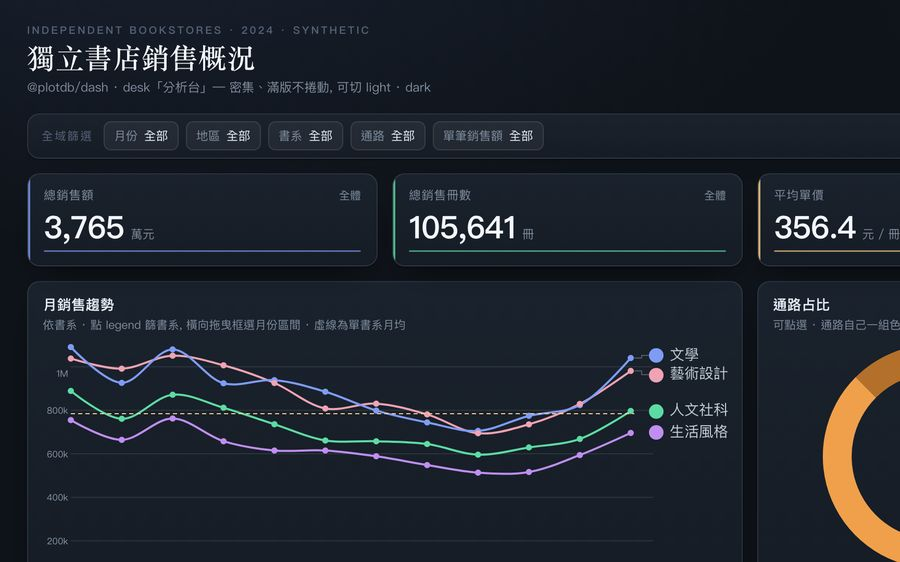
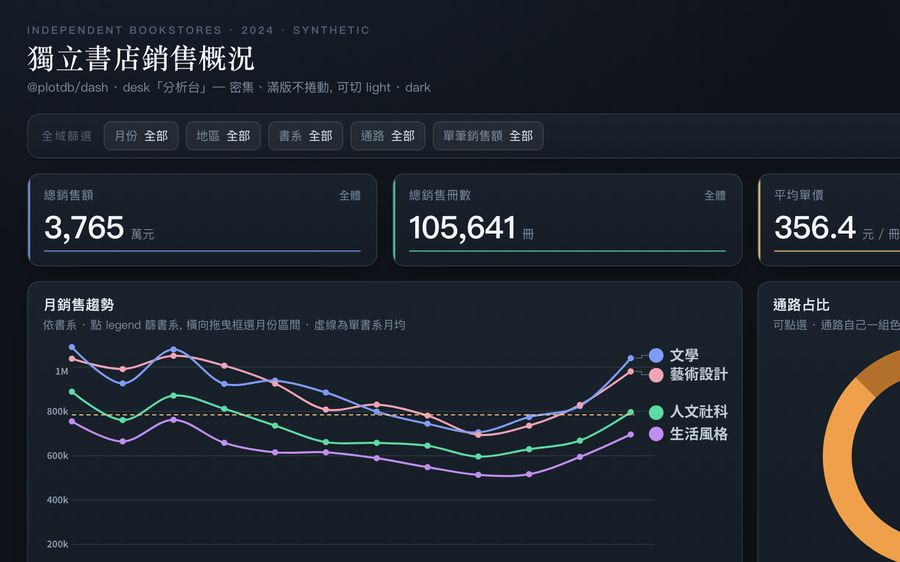
示範頁: 地圖的輪廓與色階, desk 固定帶一個 xlfont 字型
地圖幾乎看不見, 查下來是三件事疊在一起:

1. taiwan-map 把 palette.colors 當成「分級」用, 不是漸層的兩端. 七版都只
   給兩個顏色, 所以只有兩級 - 六個有銷售的縣市裡只有前兩名上色, 第三名
   ( 臺中市 620 萬 ) 拿到的顏色跟完全沒有資料的縣市一樣. 打開 legend 就
   看得到它寫著兩段級距. 現在都給五階.

2. 縣市邊界原本 rgba(...,.14~.22) 配 0.6~0.8px, 對卡片底的對比只有
   1.3~1.9; 最低一級的填色對卡片底只有 1.1~1.2. 兩個都看不見, 所以整座島
   是透明的. 現在的值是算出來的: 邊界取對比 2.4、線寬 1px, 最低一級的填色
   取對比 1.30 - 前者讓線讀得到, 後者讓陸地在沒有資料時仍是一塊看得出形狀
   的面. 每一版底色不同所以數值不同, 但目標對比一樣.

3. split 的主題寫成 `geo: colors: <[...]>, border: {...}` 在同一行, 隱式
   物件一路吃到行尾, border 變成 geo 的 key, 於是邊線設定跑進 palette
   底下、圖表拿不到 - 那一頁的地圖根本沒有輪廓. 大括號補回來.

另外 desk 的主題層固定帶 font: {family: {name: 'Taipei Sans TC'}}, 當成
字型那條路的長期回歸點: 它會走 konfig 字型元件 -> xlfont 子集載入 ->
把 xfl-* 掛到 svg 上, 每次重拍縮圖就會順便驗到. 名字不在 xlfont 的 meta
裡的話會拿到空物件, 畫面上是瀏覽器字型, 不報錯也沒人會發現.

縮圖只有 desk 兩張變 ( 其餘設計的地圖不在裁切範圍內 ).

diff --git a/web/src/pug/initiative/variation/README.md b/web/src/pug/initiative/variation/README.md
@@ -122,5 +122,40 @@
 `prefers-reduced-motion`。所以現在它跟其他六版一樣從頭拍。
 
 
+## 地圖：色階是「分級」，不是漸層
+
+`@makechart/taiwan-map` 把 `palette.colors` 當成**分級**用：給兩個顏色就只有兩級。
+原本七版都只給兩個，結果是六個有銷售的縣市裡只有前兩名上色，第三名（臺中市 620 萬）
+拿到的顏色跟**完全沒有資料**的縣市一模一樣 —— 看起來像壞掉，實際上是級距只有兩段。
+
+打開 legend 就看得到：兩個顏色時它寫的是
+
+    7,200,000 - 12,000,000 元
+    2,200,000 - 7,200,000 元
+
+現在七版的 `geo-ramp` 都給五階，從低端到強調色等距內插出來的。
+
+另外，**沒有資料的縣市跟最低一級同色**，這一點目前沒辦法分開 —— `taiwan-map` 的設定
+只有 `border` 與 `legend`，沒有「無資料」的顏色。要分開得改圖表。
+
+## 地圖：輪廓要自己撐住
+
+縣市邊界原本是 `rgba(..., .14~.22)` 配 0.6~0.8px，對卡片底的對比只有 1.3~1.9，
+而「沒有資料」那一級的填色對卡片底只有 1.1~1.2 —— 兩個都看不見，所以整座島是透明的。
+
+現在的規則是算出來的，不是調出來的：**邊界對卡片底取對比 2.4、線寬 1px，
+最低一級的填色對卡片底取對比 1.30**。前者讓線讀得到，後者讓陸地在沒有任何資料時
+仍然是一塊看得出形狀的面。七個設計各自的底色不同，所以每一版的 alpha 與色票都不一樣，
+但目標對比是同一個。
+
+## desk 固定帶一個 xlfont 字型
+
+七版裡只有 `desk` 的主題層帶 `font: {family: {name: 'Taipei Sans TC'}}`，
+當成字型那條路的長期回歸點：它會走 `@makechart/base` 的 konfig 字型元件 →
+xlfont 子集載入 → 把 `xfl-*` 掛到 svg 上，所以每次重拍縮圖就會順便驗到那一串。
+
+字型名必須在 xlfont 的 meta（`xlfont.maketext.io/meta/meta.json`）裡；不在的話拿到的是
+一個空物件，畫面上就是瀏覽器的預設字型，**不會報錯也不會有人發現**。
+
 每一版各自的理由寫在自己的 `README.md`。desk 的那一份另外記了
 **三個深色底踩到的核心問題**與**順手修掉的配色 bug**，那些是這一整組的副產品。
